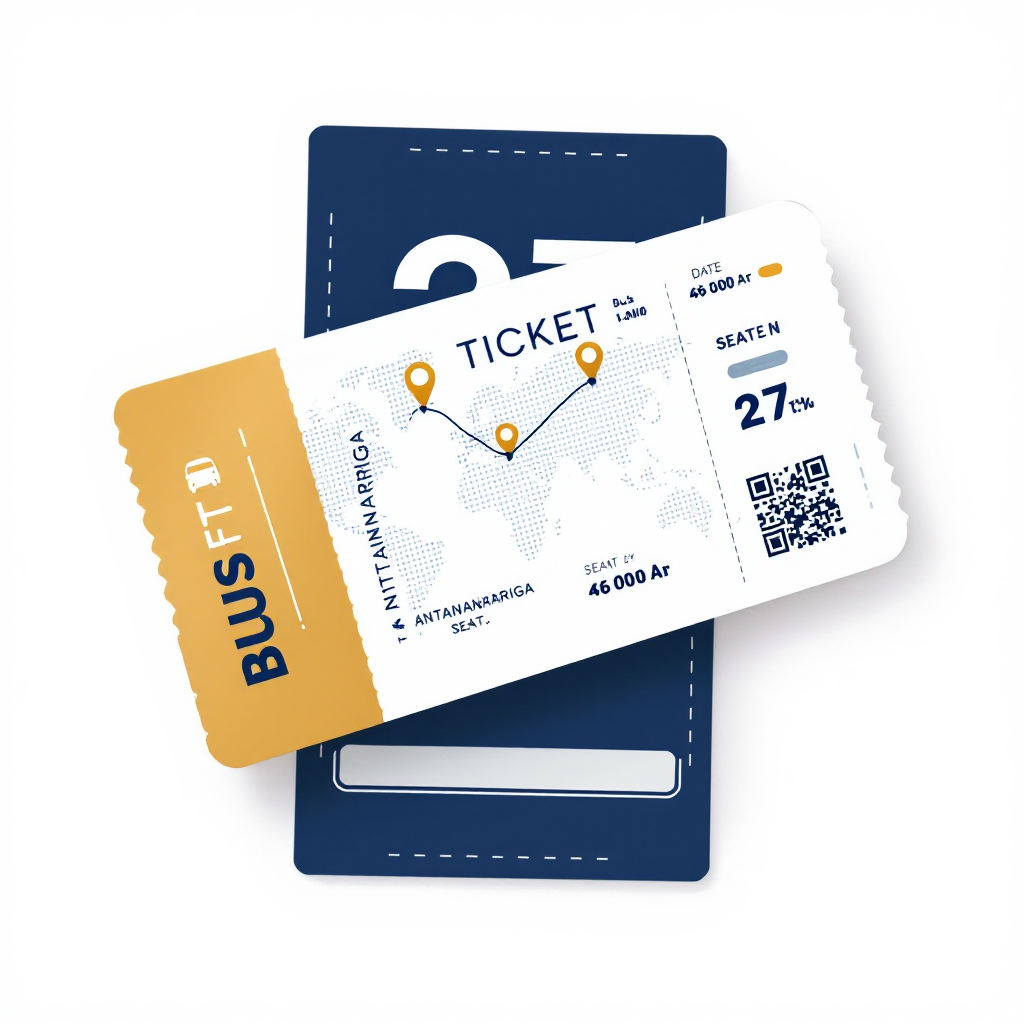
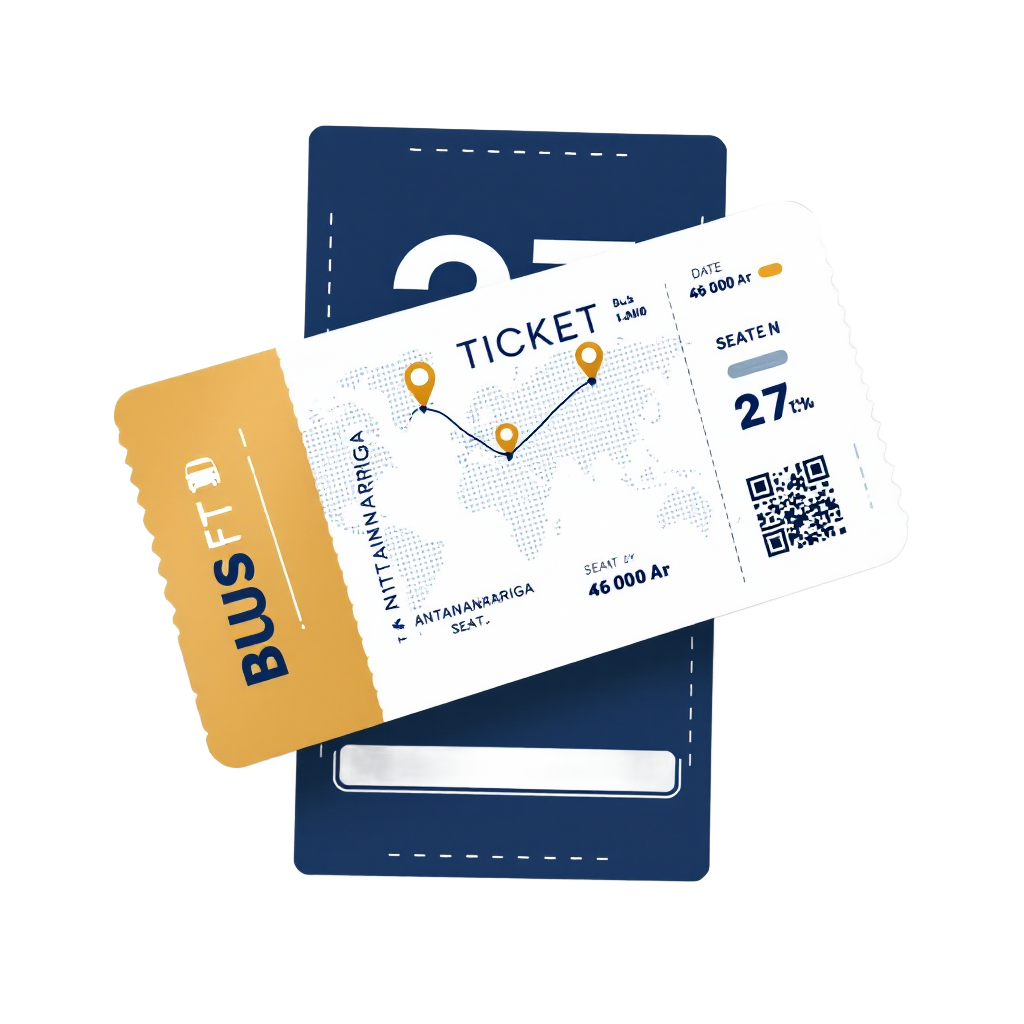
fix(client): transparent background on ticket artwork
Remove the white background from tickets_img.png (segmentation cutout) so
the boarding-pass artwork floats cleanly on the mist section; bump ?v=3.

Changed region(s): [[0.3125, 0.25, 0.9062, 0.875], [0.2188, 0.7188, 0.5938, 0.8125], [0.6875, 0.1562, 0.7188, 0.2188]]

diff --git a/packages/ui/src/components/sign-in.tsx b/packages/ui/src/components/sign-in.tsx
@@ -85,7 +85,7 @@ export function SignInScreen({
         />
         <span
           aria-hidden
-          className="absolute inset-0 [background:linear-gradient(150deg,rgba(23,40,111,.92)_0%,rgba(15,45,92,.88)_55%,rgba(11,29,68,.95)_100%)]"
+          className="absolute inset-0 [background:linear-gradient(150deg,rgba(15,45,92,.50)_0%,rgba(23,40,111,.50)_50%,rgba(11,29,68,.50)_70%)]"
         />
         {/* concentric rings */}
         <svg

diff --git a/apps/client/src/components/sections/BusTravel.tsx b/apps/client/src/components/sections/BusTravel.tsx
@@ -68,7 +68,7 @@ export default function BusTravel() {
 
         {/* Boarding-pass artwork (Antananarivo → Mahajanga). */}
         <Image
-          src="/wp-content/uploads/2025/02/tickets_img.png?v=2"
+          src="/wp-content/uploads/2025/02/tickets_img.png?v=3"
           alt=""
           width={564}
           height={593}
